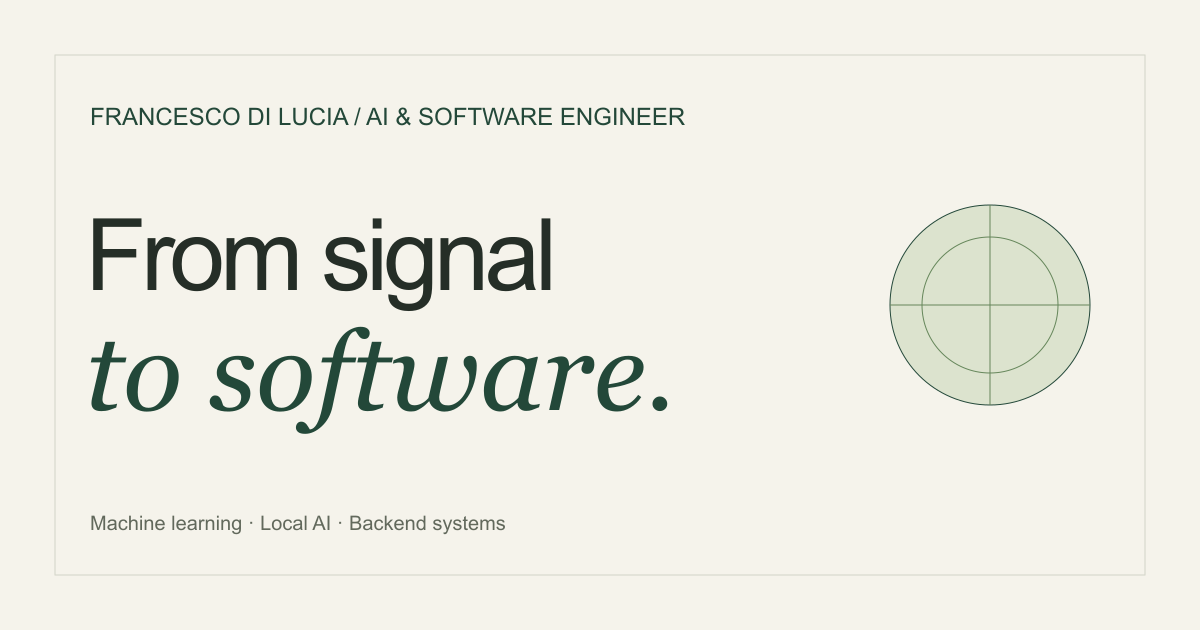
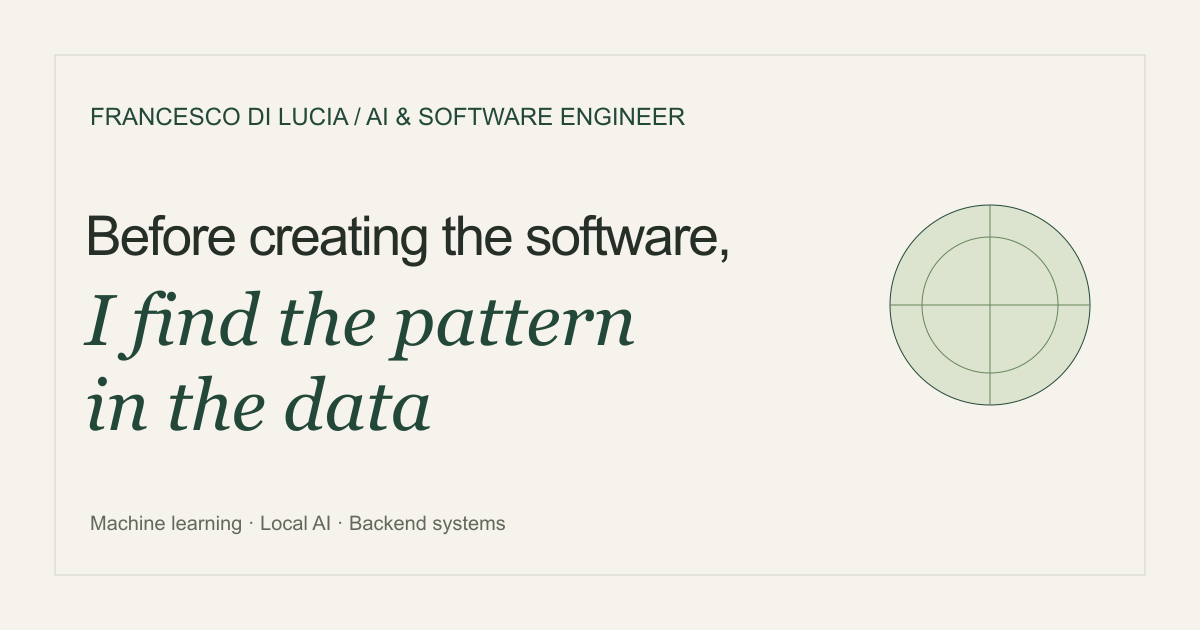
Update bilingual copy and presentation portrait

Changed region(s): [[0.0617, 0.3317, 0.6167, 0.6937]]

diff --git a/src/data/italian.ts b/src/data/italian.ts
@@ -19,22 +19,16 @@ export const italian: Record<string, string> = {
   "Switch to English": "Passa all’inglese",
   "AI / ML & SOFTWARE ENGINEERING": "AI / ML E INGEGNERIA DEL SOFTWARE",
   "Hi, I’m Francesco.": "Ciao, sono Francesco.",
-  "From signal": "Dal segnale",
-  to: "al",
-  "software.": "software.",
-  "A DIFFERENT VIEW OF THE SAME WORLD":
-    "UNO SGUARDO DIVERSO SULLO STESSO MONDO",
-  "I build machine-learning systems and the software around them—from multispectral imagery to local AI tools.":
-    "Sviluppo sistemi di machine learning e il software che li rende utili: dalle immagini multispettrali agli strumenti di AI locale.",
+  "Before creating the software,": "Prima di creare il software,",
+  "I find the pattern in the data": "trovo il pattern nei dati",
+  "I develop and research machine learning systems and algorithms that I then go on to integrate into software applications.":
+    "Sviluppo e ricerco sistemi e algoritmi di machine learning che poi vado ad integrare nelle applicazioni software.",
   "Explore my work": "Scopri i miei progetti",
-  "MODELS. SYSTEMS. THE CONNECTIONS BETWEEN.":
-    "MODELLI. SISTEMI. LE CONNESSIONI TRA LORO.",
   "Scroll to selected work": "Vai ai progetti selezionati",
   "SCROLL TO EXPLORE": "SCORRI PER ESPLORARE",
   "01 / SELECTED WORK": "01 / PROGETTI SELEZIONATI",
-  "Ideas, made tangible.": "Idee che prendono forma.",
-  "A few projects where I’ve turned": "Alcuni progetti in cui ho trasformato",
-  "a question into a working system.": "una domanda in un sistema funzionante.",
+  "From ideas to banging my head against the wall to give them shape":
+    "Dalle idee alle testate al muro per dar loro forma",
   Technologies: "Tecnologie",
   "Explore the study": "Esplora lo studio",
   Read: "Leggi",
@@ -50,10 +44,10 @@ export const italian: Record<string, string> = {
   "Collaborative academic project · my work: backend integration":
     "Progetto accademico di gruppo · il mio contributo: integrazione del backend",
   "02 / HOW I WORK": "02 / COME LAVORO",
-  "The model is": "Il modello è",
-  "part of the system.": "parte del sistema.",
-  "I’m interested in the connections: how data becomes an experiment, how a model becomes an application, and how we check what actually works.":
-    "Mi interessano le connessioni: come i dati diventano un esperimento, come un modello diventa un’applicazione e come verifichiamo ciò che funziona davvero.",
+  "Every problem must be studied to define the requirements, find the model and create the system.":
+    "Ogni problema deve essere studiato per definire i requisiti, trovare il modello e creare il sistema.",
+  "“I know the pieces fit!” Yes, just like the TOOL song: I like patterns, I like experiments, but above all I like finding solutions to problems.":
+    "“I know the pieces fit!” Sì, proprio come la canzone dei TOOL: mi piacciono i pattern, mi piacciono gli esperimenti, ma soprattutto mi piace trovare soluzioni a problemi.",
   "01 / APPLIED ML": "01 / ML APPLICATO",
   "From data to evidence": "Dai dati alle evidenze",
   "Alignment, feature engineering and evaluated models. Grounded in my multispectral thesis and collaborative ML research.":
@@ -66,12 +60,13 @@ export const italian: Record<string, string> = {
   "Pieces that fit together": "Componenti che si integrano",
   "APIs, identity, data and event-driven integration. Clear boundaries between components.":
     "API, identità, dati e integrazione basata su eventi. Responsabilità chiare tra i componenti.",
-  "Francesco outdoors with the mountains behind him":
-    "Francesco all’aperto, con le montagne sullo sfondo",
+  "Francesco presenting his multispectral thesis":
+    "Francesco durante la presentazione della tesi multispettrale",
   "FRANCESCO DI LUCIA / TURIN, ITALY": "FRANCESCO DI LUCIA / TORINO, ITALIA",
   "03 / THE PERSON BEHIND THE WORK": "03 / LA PERSONA DIETRO I PROGETTI",
-  "Curious about": "Curioso di capire",
-  "how it all fits.": "come tutto si collega.",
+  "Always looking for opportunities for growth,":
+    "Sempre alla ricerca di opportunità di crescita,",
+  "both personal and professional": "sia personale che professionale",
   "I’m Francesco, a computer engineer with an MSc from Politecnico di Torino, specializing in AI and Data Analytics. I like working where models meet software: preparing the data, building the application around it, and checking what actually works.":
     "Sono Francesco, ingegnere informatico con una laurea magistrale al Politecnico di Torino, specializzato in AI e Data Analytics. Mi piace lavorare dove i modelli incontrano il software: preparare i dati, costruire l’applicazione che li utilizza e verificare ciò che funziona davvero.",
   "My thesis took me into multispectral imagery and plant health. Other projects have led me to local AI tools, agent runtimes and distributed backends. I’m especially interested in AI connected to the physical world, and in visual explanations that make complex work easier to follow.":
@@ -88,8 +83,8 @@ export const italian: Record<string, string> = {
     "Hai in mente un progetto o un’opportunità?",
   "I’d be happy to talk.": "Ne parlo volentieri.",
   "Say hello": "Scrivimi",
-  "Reading plant health beyond RGB.":
-    "Leggere la salute delle piante oltre l’RGB.",
+  "Classifying plant health from multispectral images.":
+    "Classificare la salute delle piante partendo dalle immagini multispettrali.",
   "Multispectral plant classification":
     "Classificazione multispettrale delle piante",
   "Applied machine learning": "Machine learning applicato",

diff --git a/src/styles/global.css b/src/styles/global.css
@@ -222,11 +222,14 @@ button[hidden],
   color: var(--ink);
 }
 .hero h1 {
-  font-size: clamp(68px, 7.8vw, 112px);
-  letter-spacing: -0.065em;
-  line-height: 0.98;
+  font-size: clamp(52px, 5.4vw, 78px);
+  letter-spacing: -0.055em;
+  line-height: 1.06;
   position: relative;
   z-index: 1;
+}
+.hero h1 > span {
+  display: block;
 }
 .hero h1 em {
   color: var(--forest);
@@ -290,7 +293,7 @@ button[hidden],
 }
 .hero-foot {
   display: flex;
-  justify-content: space-between;
+  justify-content: flex-end;
   border-bottom: 1px solid var(--line);
   margin-top: 62px;
   padding-bottom: 25px;
@@ -319,6 +322,8 @@ button[hidden],
 }
 .section-heading h2 {
   font-size: clamp(35px, 3.5vw, 49px);
+  max-width: 30ch;
+  text-wrap: balance;
 }
 .section-heading p {
   font-size: 13px;
@@ -931,10 +936,15 @@ button[hidden],
   padding-block: 110px 100px;
 }
 .capabilities-intro {
-  display: flex;
+  display: grid;
+  grid-template-columns: minmax(0, 1.8fr) minmax(0, 1fr);
   justify-content: space-between;
   gap: 50px;
   align-items: center;
+}
+.capabilities-intro h2 {
+  font-size: clamp(32px, 3.1vw, 44px);
+  text-wrap: balance;
 }
 .capabilities-intro > p {
   max-width: 350px;
@@ -979,10 +989,10 @@ button[hidden],
   position: relative;
 }
 .portrait-block img {
-  aspect-ratio: 4/5;
+  aspect-ratio: 3/4;
   width: 100%;
   background: #bcc9b9;
-  object-position: 50% 42%;
+  object-position: center;
 }
 .portrait-caption {
   display: block;
@@ -991,7 +1001,8 @@ button[hidden],
   color: var(--muted);
 }
 .about h2 {
-  font-size: clamp(38px, 4.2vw, 59px);
+  font-size: clamp(34px, 3.2vw, 46px);
+  text-wrap: balance;
   margin-bottom: 29px;
 }
 .about h2 em {
@@ -1359,7 +1370,7 @@ th:first-child {
     padding-top: 75px;
   }
   .hero h1 {
-    font-size: 124px;
+    font-size: 86px;
   }
 }
 @media (max-width: 1100px) {
@@ -1367,7 +1378,7 @@ th:first-child {
     width: calc(100% - 72px);
   }
   .hero h1 {
-    font-size: clamp(64px, 8.2vw, 94px);
+    font-size: clamp(48px, 5.8vw, 64px);
   }
   .hero-composition {
     grid-template-columns: 1.5fr 1fr;
@@ -1411,7 +1422,7 @@ th:first-child {
     width: calc(100% - 48px);
   }
   .hero h1 {
-    font-size: 70px;
+    font-size: 48px;
   }
   .hero-composition {
     grid-template-columns: 1.5fr 1fr;
@@ -1625,7 +1636,7 @@ th:first-child {
     margin-bottom: 20px;
   }
   .hero h1 {
-    font-size: clamp(58px, 12vw, 84px);
+    font-size: clamp(36px, 9.8vw, 60px);
     letter-spacing: -0.06em;
   }
   .hero-art {
@@ -1893,7 +1904,7 @@ th:first-child {
     display: block;
   }
   .capabilities h2 {
-    font-size: 38px;
+    font-size: 34px;
   }
   .capabilities-intro > p {
     max-width: 420px;
@@ -1924,15 +1935,14 @@ th:first-child {
     max-width: 420px;
   }
   .portrait-block img {
-    max-height: 435px;
-    object-position: 50% 40%;
+    max-height: none;
   }
   .about-copy .eyebrow {
     font-size: 9px;
     margin-bottom: 22px;
   }
   .about h2 {
-    font-size: 41px;
+    font-size: 36px;
   }
   .about-copy > p {
     font-size: 13px;
@@ -2136,7 +2146,7 @@ th:first-child {
     font-size: 7px;
   }
   .hero h1 {
-    font-size: 55px;
+    font-size: 36px;
   }
   .hero-art {
     width: 130px;

diff --git a/src/data/portfolio.ts b/src/data/portfolio.ts
@@ -30,7 +30,7 @@ export const projects: Project[] = [
   {
     slug: "multispectral-thesis",
     number: "01",
-    title: "Reading plant health beyond RGB.",
+    title: "Classifying plant health from multispectral images.",
     shortTitle: "Multispectral plant classification",
     category: "Applied machine learning",
     status: "MSc thesis · DRONUTS",

diff --git a/ASSET_CREDITS.md b/ASSET_CREDITS.md
@@ -1,6 +1,6 @@
 # Assets and provenance
 
-- **Portrait:** user-supplied photograph `photo_5901976378804998078_y.jpg`, selected from the provided portfolio references. Cropped, resized to 800×1000 and 400×500, exported as WebP with metadata omitted. Public exports: `public/images/francesco.webp` and `francesco-small.webp`. Original remains private. Use is scoped to this requested portfolio; no third-party licensing claim is made.
+- **Portrait (updated 2026-10-05):** user-supplied photograph `me_presentation.jpeg`, explicitly supplied for publication in this portfolio. The full frame is preserved, resized to 900×1200 and 450×600, and exported as WebP with source metadata omitted. Public exports: `public/images/francesco-presentation.webp` and `francesco-presentation-small.webp`. Original remains outside public assets. Use is scoped to this requested portfolio; no third-party licensing claim is made.
 - **Scientific and architecture visuals:** original editable SVG/DOM/CSS authored for this portfolio. Thesis field, mask, feature planes and model are illustrative, informed by privately inspected thesis sources. No private sample image is included.
 - **Manrope:** variable font distributed by Fontsource; SIL Open Font License. License retained under `licenses/`.
 - **DM Mono:** regular weight distributed by Fontsource; SIL Open Font License. License retained under `licenses/`.
